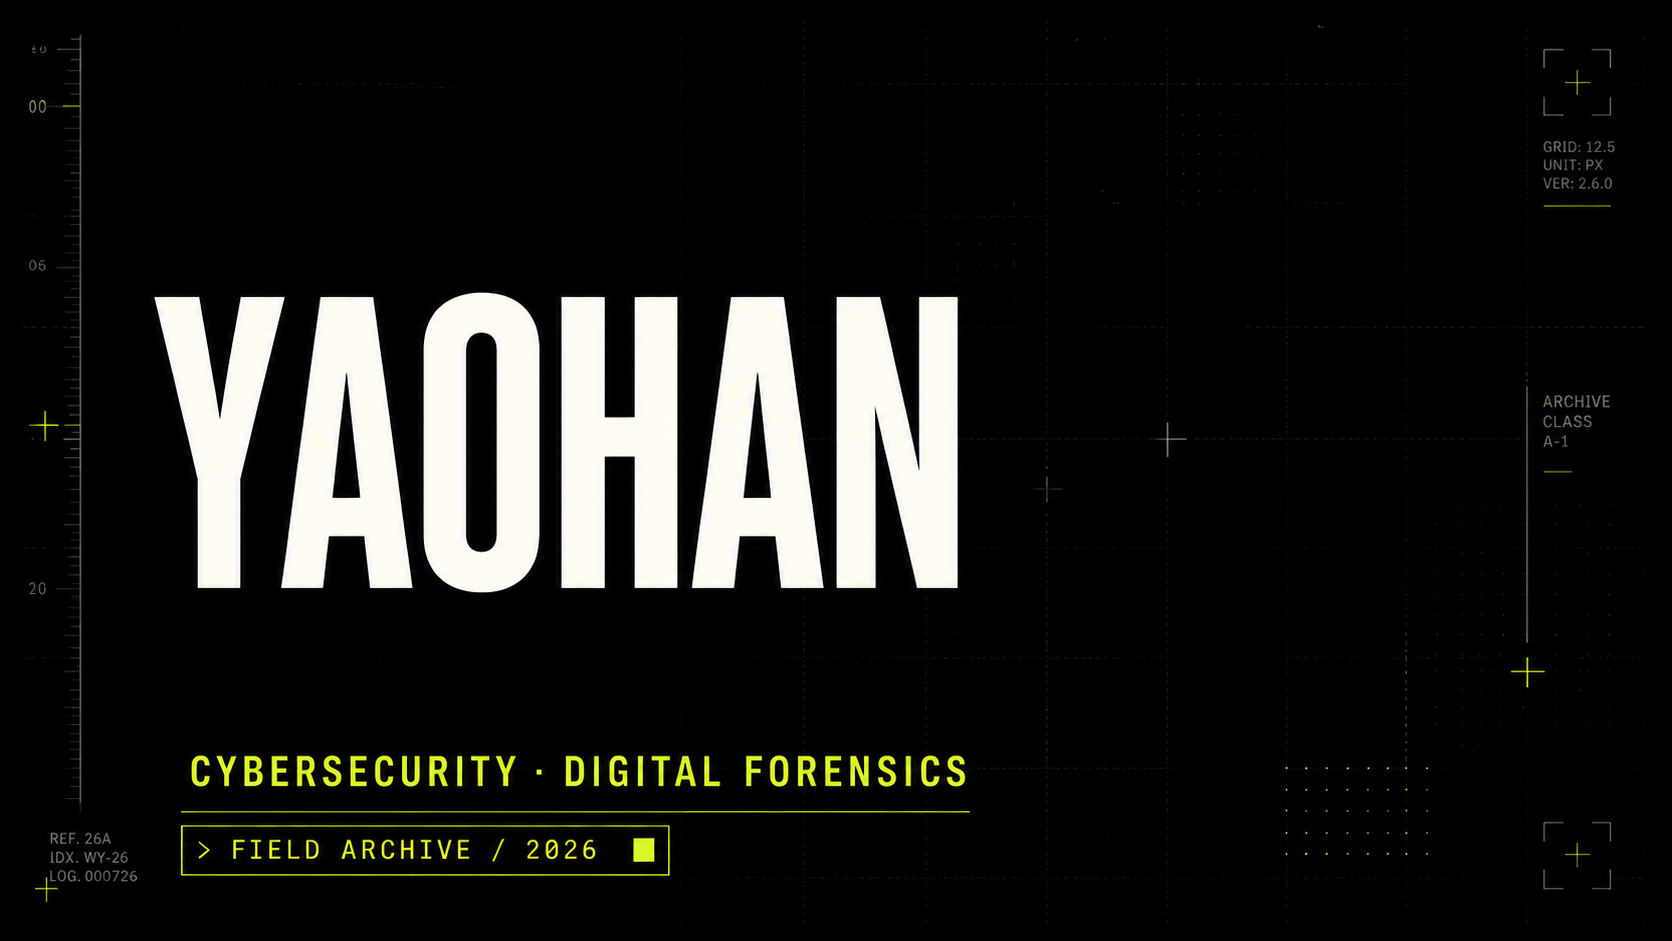
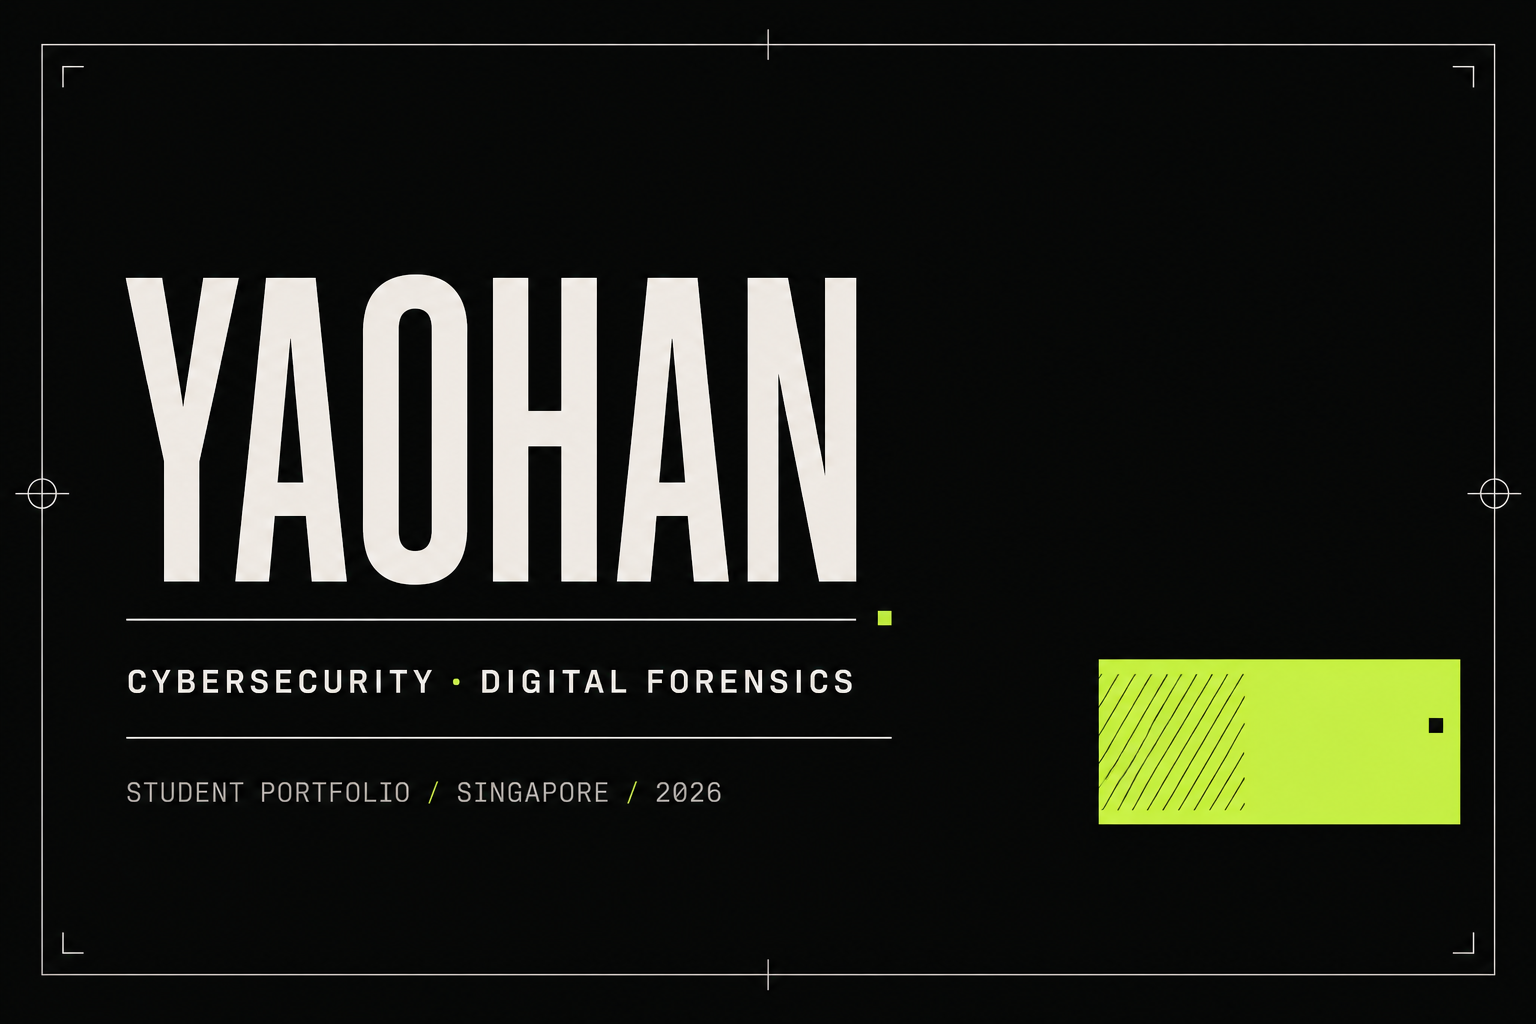
refine homepage and compact labs

diff --git a/src/styles/global.css b/src/styles/global.css
@@ -302,6 +302,28 @@ textarea {
 @media(max-width:720px){.notes-desk-stage{min-height:100svh;padding:84px 10px 10px;background-position:58% center;overflow:auto}.notes-workspace{width:100%;height:auto;min-height:calc(100svh - 94px);border-radius:20px;transform:none!important}.workspace-bar{height:64px;padding-inline:14px}.workspace-status{font-size:6px}.workspace-body{height:auto;padding:10px;display:flex;flex-direction:column;gap:10px}.subject-dock{display:flex;overflow-x:auto;padding:10px;gap:8px;transform:none;scrollbar-width:none}.subject-dock>p{display:none}.subject-tab{flex:0 0 150px;min-height:74px;padding:11px 26px 11px 47px}.subject-tab.active{transform:none}.subject-folder{left:12px;top:25px;width:24px;height:18px}.subject-tab-copy strong{font-size:11px}.workspace-focus{min-height:520px;padding:17px;transform:none}.open-folder-card{min-height:175px;padding:24px 20px}.open-folder-card h1{font-size:clamp(2rem,10vw,3.2rem)}.workspace-file{grid-template-columns:26px minmax(0,1fr) 36px}.workspace-file time{display:none}.workspace-identity small{display:none}}
 
 /* Record interiors inherit the visual language of their collection */
+
+/* Clean editorial homepage */
+.home-clean{background:#0c0c0b;color:#f2efe7}
+.home-clean .site-nav{top:0;left:0;right:0;width:100%;transform:none;border:0;border-bottom:1px solid rgba(242,239,231,.12);border-radius:0;background:rgba(12,12,11,.82);box-shadow:none;backdrop-filter:blur(18px)}
+.home-clean .site-nav nav{height:72px;max-width:1480px}
+.clean-hero{width:min(1480px,100%);min-height:100vh;margin:auto;padding:132px 34px 34px;display:grid;grid-template-columns:minmax(0,1.12fr) minmax(340px,.72fr);grid-template-rows:1fr auto;gap:44px 70px;align-items:center}
+.clean-hero-copy{max-width:820px}.clean-status{display:flex;align-items:center;gap:10px;margin-bottom:50px;color:#98978f;font:600 9px "JetBrains Mono",monospace;letter-spacing:.12em;text-transform:uppercase}.clean-status span{width:7px;height:7px;border-radius:50%;background:#c9ff5f;box-shadow:0 0 16px rgba(201,255,95,.55)}
+.clean-hero h1{margin:0;font:650 clamp(5.2rem,10.2vw,10.5rem)/.76 "Space Grotesk",sans-serif;letter-spacing:-.095em}.clean-hero h1 em{color:#c9ff5f;font-style:normal}.clean-role{max-width:650px;margin:46px 0 16px;color:#e5e1d8;font-size:clamp(1.2rem,2vw,1.75rem);line-height:1.35;letter-spacing:-.025em}.clean-intro{max-width:610px;color:#85847e;font-size:.92rem;line-height:1.75}.clean-actions{display:flex;flex-wrap:wrap;gap:12px;margin-top:36px}.clean-actions a{display:flex;align-items:center;justify-content:space-between;gap:28px;padding:14px 17px;border:1px solid rgba(242,239,231,.2);border-radius:9px;font-size:.76rem;transition:background .2s,color .2s,border-color .2s,transform .2s}.clean-actions a:first-child{background:#f2efe7;color:#10100f;border-color:#f2efe7}.clean-actions a:hover{transform:translateY(-2px);border-color:#c9ff5f}.clean-actions a:first-child:hover{background:#c9ff5f}
+.portrait-placeholder{position:relative;align-self:stretch;min-height:570px;padding:20px;display:flex;flex-direction:column;justify-content:space-between;border:1px solid rgba(242,239,231,.17);border-radius:3px;background:linear-gradient(135deg,rgba(255,255,255,.035),transparent 52%),#121211;overflow:hidden}.portrait-placeholder:before,.portrait-placeholder:after{content:'';position:absolute;pointer-events:none}.portrait-placeholder:before{inset:0;background:linear-gradient(90deg,transparent calc(50% - .5px),rgba(242,239,231,.06) 50%,transparent calc(50% + .5px)),linear-gradient(transparent calc(50% - .5px),rgba(242,239,231,.06) 50%,transparent calc(50% + .5px))}.portrait-placeholder:after{inset:18px;border:1px solid rgba(242,239,231,.07)}.portrait-placeholder>span,.portrait-placeholder>p{position:relative;z-index:2;color:#6f6e69;font:600 8px "JetBrains Mono",monospace;letter-spacing:.14em}.portrait-placeholder>p{text-align:right}.portrait-placeholder>div{position:relative;z-index:2;width:72%;aspect-ratio:3/4;margin:auto;border:1px dashed rgba(242,239,231,.12)}.portrait-placeholder>div:before,.portrait-placeholder>div:after,.portrait-placeholder>div i:before,.portrait-placeholder>div i:after{content:'';position:absolute;width:17px;height:17px;border-color:rgba(201,255,95,.48);border-style:solid}.portrait-placeholder>div:before{left:-1px;top:-1px;border-width:1px 0 0 1px}.portrait-placeholder>div:after{right:-1px;top:-1px;border-width:1px 1px 0 0}.portrait-placeholder>div i:before{left:-1px;bottom:-1px;border-width:0 0 1px 1px}.portrait-placeholder>div i:after{right:-1px;bottom:-1px;border-width:0 1px 1px 0}
+.clean-hero-foot{grid-column:1/-1;padding-top:20px;display:flex;justify-content:space-between;gap:20px;border-top:1px solid rgba(242,239,231,.14);color:#6f6e69;font:600 8px "JetBrains Mono",monospace;letter-spacing:.13em;text-transform:uppercase}
+.clean-work{padding:150px 34px 90px}.clean-section-heading{width:min(1400px,100%);margin:0 auto 70px;display:grid;grid-template-columns:1fr 420px;gap:70px;align-items:end}.clean-section-heading>div>p,.clean-index-heading>p,.clean-about>p{margin-bottom:30px;color:#77766f;font:650 8px "JetBrains Mono",monospace;letter-spacing:.18em}.clean-section-heading h2{font:620 clamp(3.7rem,7.5vw,7.5rem)/.84 "Space Grotesk",sans-serif;letter-spacing:-.075em}.clean-section-heading>p{color:#84837d;line-height:1.75}
+.featured-work-grid{width:min(1400px,100%);margin:auto;display:grid;grid-template-columns:repeat(3,1fr);gap:14px}.featured-work-card{min-width:0;display:grid;grid-template-rows:auto 1fr auto;min-height:600px;padding:18px;border-radius:13px;color:#111;overflow:hidden;transition:transform .35s cubic-bezier(.2,.8,.2,1),border-radius .35s}.featured-work-card:hover{transform:translateY(-8px);border-radius:22px}.feature-1{background:#a9dff0}.feature-2{background:#c9ff5f}.feature-3{background:#c6b8ff}.featured-card-top{display:flex;justify-content:space-between;font:650 8px "JetBrains Mono",monospace;letter-spacing:.12em}.featured-card-art{position:relative;min-height:285px;margin:28px 0;display:grid;place-items:center;border:1px solid rgba(0,0,0,.16);border-radius:50%;overflow:hidden}.featured-card-art:before,.featured-card-art:after,.featured-card-art i{content:'';position:absolute;border:1px solid rgba(0,0,0,.14);border-radius:50%}.featured-card-art:before{width:76%;aspect-ratio:1}.featured-card-art:after{width:48%;aspect-ratio:1}.featured-card-art i:first-child{width:125%;height:42%;rotate:22deg}.featured-card-art i:nth-child(2){width:118%;height:32%;rotate:-38deg}.featured-card-art b{font:700 clamp(5rem,9vw,9rem) "Space Grotesk",sans-serif;letter-spacing:-.1em}.featured-card-copy h3{font:650 clamp(2.5rem,4vw,4.3rem)/.9 "Space Grotesk",sans-serif;letter-spacing:-.065em}.featured-card-copy p{min-height:62px;margin:18px 0 28px;color:rgba(0,0,0,.6);font-size:.78rem;line-height:1.55}.featured-card-copy>span{display:flex;justify-content:space-between;padding-top:14px;border-top:1px solid rgba(0,0,0,.18);font:650 8px "JetBrains Mono",monospace;text-transform:uppercase;letter-spacing:.1em}
+.clean-index{width:min(1400px,calc(100% - 68px));margin:80px auto 170px}.clean-index-heading{display:flex;align-items:end;justify-content:space-between;padding-bottom:20px;border-bottom:1px solid rgba(242,239,231,.18)}.clean-index-heading>p{margin:0}.clean-index-heading>span{color:#6e6d67;font:600 8px "JetBrains Mono",monospace;text-transform:uppercase}.clean-index>a{display:grid;grid-template-columns:55px 280px 1fr 30px;gap:24px;align-items:center;padding:28px 5px;border-bottom:1px solid rgba(242,239,231,.14);transition:padding .25s,background .25s}.clean-index>a:hover{padding-inline:16px;background:rgba(242,239,231,.035)}.clean-index>a>span,.clean-index>a>b{color:#6f6e68;font:600 8px "JetBrains Mono",monospace}.clean-index>a>strong{font:620 clamp(1.6rem,2.7vw,2.8rem) "Space Grotesk",sans-serif;letter-spacing:-.05em}.clean-index>a>p{color:#797872;font-size:.78rem}.clean-index>a>b{color:#c9ff5f;text-align:right}
+.clean-about{width:min(1400px,calc(100% - 68px));margin:0 auto 170px;padding:80px 0;border-top:1px solid rgba(242,239,231,.16);display:grid;grid-template-columns:180px 1fr 420px;gap:55px}.clean-about>p{margin:8px 0}.clean-about h2{font:620 clamp(3rem,6vw,6rem)/.88 "Space Grotesk",sans-serif;letter-spacing:-.065em}.clean-about>div{display:grid;gap:22px;color:#83827c;font-size:.86rem;line-height:1.75}.home-clean .game-section{border-top:1px solid rgba(242,239,231,.14)}
+@media(prefers-reduced-motion:no-preference){.clean-hero-copy,.portrait-placeholder{animation:home-clean-in .7s cubic-bezier(.2,.8,.2,1) both}.portrait-placeholder{animation-delay:.12s}@keyframes home-clean-in{from{opacity:0;transform:translateY(22px)}to{opacity:1;transform:none}}}
+@media(max-width:980px){.clean-hero{grid-template-columns:1fr;grid-template-rows:auto auto auto;padding-top:125px}.portrait-placeholder{min-height:520px}.clean-section-heading{grid-template-columns:1fr}.featured-work-grid{grid-template-columns:1fr}.featured-work-card{min-height:520px}.featured-card-art{min-height:240px}.clean-about{grid-template-columns:1fr}.clean-index>a{grid-template-columns:45px 220px 1fr 25px}}
+@media(max-width:680px){.clean-hero{padding:112px 18px 24px;gap:38px}.clean-status{margin-bottom:34px}.clean-hero h1{font-size:20vw}.clean-role{margin-top:34px}.portrait-placeholder{min-height:440px}.clean-hero-foot{display:grid;grid-template-columns:1fr 1fr}.clean-work{padding:105px 18px 60px}.clean-section-heading{margin-bottom:45px}.featured-work-card{min-height:480px}.clean-index{width:calc(100% - 36px);margin-block:50px 110px}.clean-index>a{grid-template-columns:34px 1fr 24px;gap:12px}.clean-index>a>p{display:none}.clean-about{width:calc(100% - 36px);margin-bottom:110px;padding-top:55px}.home-clean .site-nav{width:100%;top:0}}
+
+/* Concise lab index: details remain inside each lab */
+.lab-sheet.lab-sheet-compact{min-height:168px;grid-template-columns:120px 178px minmax(0,1fr) 120px;margin-block:14px}.lab-sheet-compact img,.lab-sheet-compact .lab-visual{height:168px;max-height:168px}.lab-sheet-compact .lab-visual span{font-size:4.5rem}.lab-sheet-compact .lab-copy{padding:23px 28px;display:flex;flex-direction:column;justify-content:center}.lab-sheet-compact .lab-copy h2{margin:12px 0 8px;font-size:clamp(1.55rem,2.7vw,2.75rem)}.lab-sheet-compact .tag-line{margin-top:10px}.lab-sheet-compact .sheet-arrow{display:flex;align-items:center;justify-content:center;gap:10px;font:700 8px "JetBrains Mono",monospace;letter-spacing:.1em}.lab-sheet-compact .lab-ref{padding:24px 15px 15px}
+@media(max-width:850px){.lab-sheet.lab-sheet-compact{grid-template-columns:80px 120px 1fr;min-height:135px}.lab-sheet-compact img,.lab-sheet-compact .lab-visual{height:135px}.lab-sheet-compact .lab-copy{padding:18px}.lab-sheet-compact .sheet-arrow{display:none}.lab-sheet-compact .tag-line{display:none}}
+@media(max-width:580px){.lab-sheet.lab-sheet-compact{grid-template-columns:58px 1fr}.lab-sheet-compact img,.lab-sheet-compact .lab-visual{display:none}.lab-sheet-compact .lab-copy{padding:18px 12px}.lab-sheet-compact .lab-ref{padding:19px 8px}.lab-sheet-compact .lab-copy h2{font-size:1.55rem}}
 .detail-page{padding-top:0}.detail-page>section:first-of-type{padding-top:150px!important}.detail-page>section:first-of-type h1{font-family:"Space Grotesk",sans-serif!important;font-weight:850!important;letter-spacing:-.065em!important;text-transform:none!important}.detail-page img{display:block;max-width:100%;height:auto!important;object-fit:contain!important;background:#0a0b0c}.detail-page article img{margin-block:28px;border-radius:4px!important}.detail-page article,.detail-page details{border-radius:6px!important}.detail-page pre{border-radius:4px!important}
 .detail-lab{background:#07141a!important}.detail-lab>section:first-of-type{background-image:linear-gradient(rgba(130,220,255,.06) 1px,transparent 1px),linear-gradient(90deg,rgba(130,220,255,.06) 1px,transparent 1px)!important;background-size:34px 34px!important}.detail-lab>section:first-of-type h1,.detail-lab article>p:first-child{color:#82dcff!important;text-shadow:none!important}.detail-lab article{border-color:rgba(130,220,255,.2)!important;background:#09191f!important}
 .detail-writeup{background:#050706!important;font-family:"JetBrains Mono",monospace}.detail-writeup>section:first-of-type{background:linear-gradient(rgba(63,255,105,.025) 1px,transparent 1px)!important;background-size:100% 5px!important}.detail-writeup>section:first-of-type h1{color:#dff8e3!important;font-family:"JetBrains Mono",monospace!important}.detail-writeup article,.detail-writeup details,.detail-writeup aside>article{border-color:#23402a!important;background:#08100a!important}.detail-writeup article a,.detail-writeup summary{color:#5eff7d!important}
